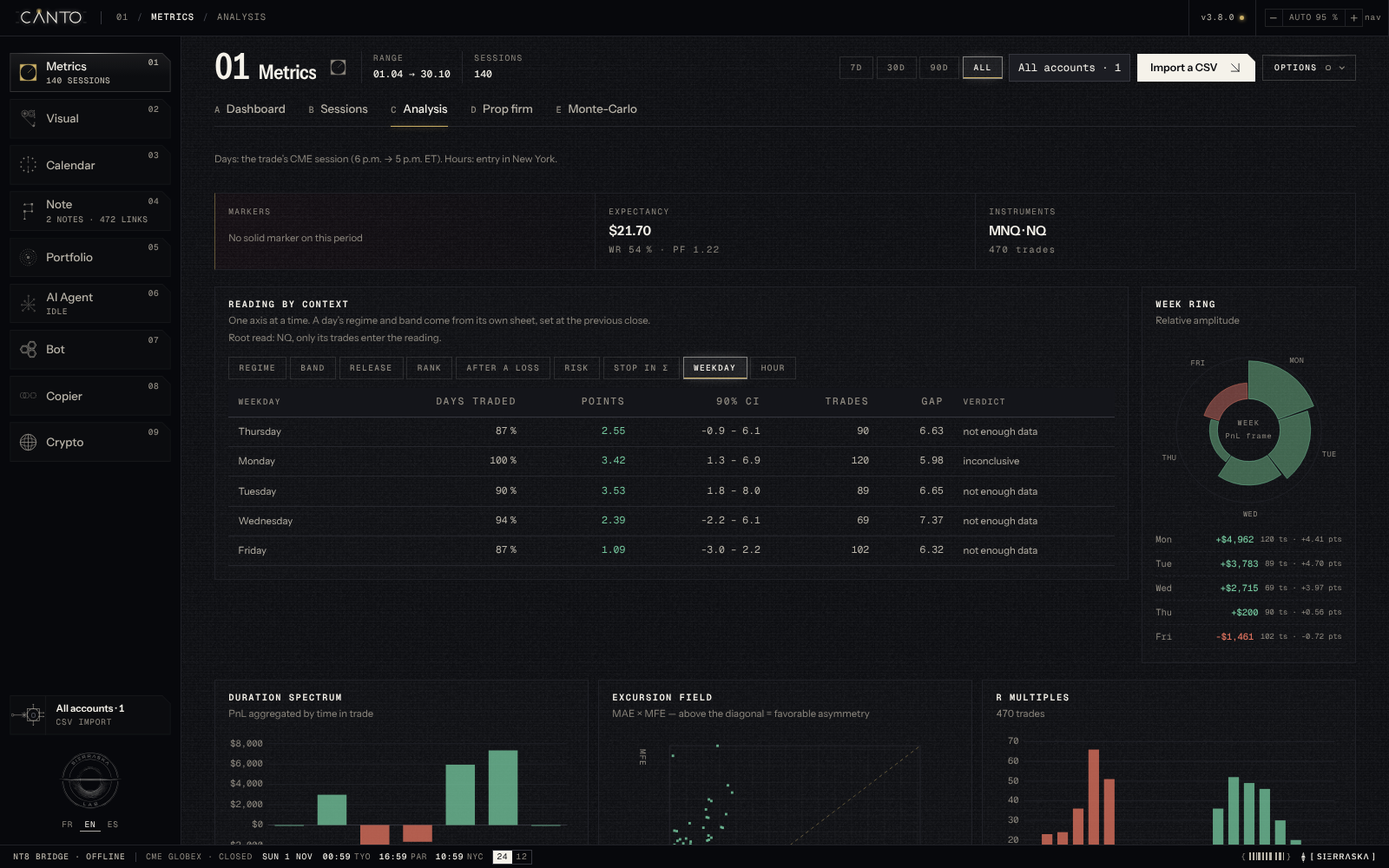
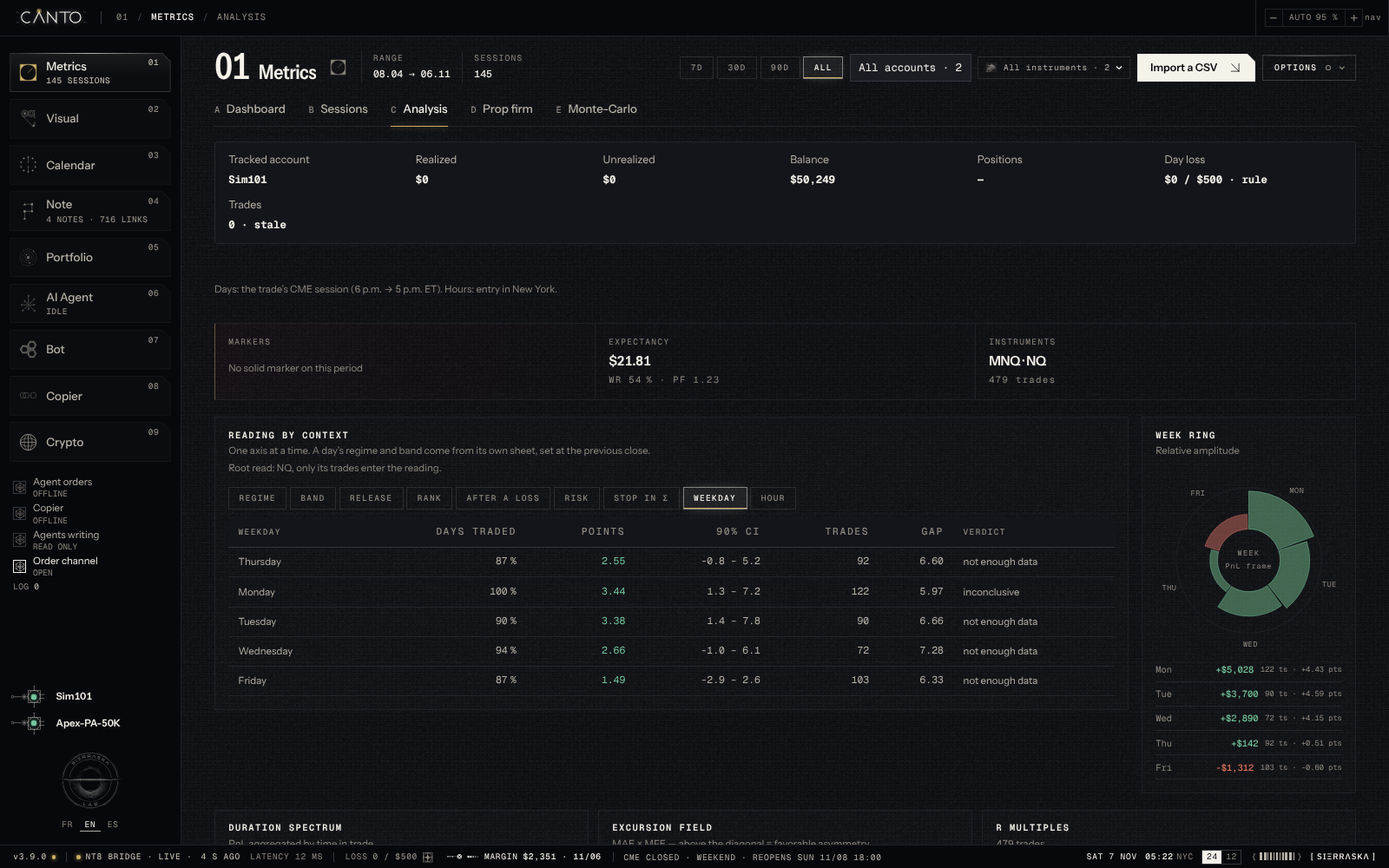
R3.9c mettre le README et ses plates au desk de main : version au pied, comptes connectés, ligne de la journée, fiche et frise, pont NT8 simulé à la capture, 3 159 tests

diff --git a/tests/readme.test.ts b/tests/readme.test.ts
@@ -79,4 +79,37 @@ describe('README', () => {
     expect(readme).not.toContain('The agent reads official sources only');
     expect(readme).toContain('the training is started, resumed and stopped from the Lab\'s own desk only');
   });
+
+  it('R3.9c le README suit le desk de main : la version au pied, les comptes connectés, la ligne de la journée, la fiche et la frise, des plates recapturées avec le pont', () => {
+    const desk = readme.slice(readme.indexOf('<a id="the-desk"></a>'), readme.indexOf('<a id="metrics"></a>'));
+    // La section dit qu'elle montre main, en avance sur les installeurs de la version publiée.
+    expect(desk).toContain('This section and its plates show the desk on `main`.');
+    // Le pied du rail : les comptes connectés, et plus la cartouche du compte ; rien sans compte connecté.
+    expect(desk).toContain('**connected accounts**');
+    expect(desk).toContain('its lamp lit green');
+    expect(desk).toContain('nothing at all when none is connected');
+    expect(readme).not.toMatch(/the \*\*account\*\* in the same cartouche|then the name and the source/);
+    // La version au pied, premier indicateur de la barre d'état : plus en haut à droite.
+    expect(desk).toContain('The version comes first and opens the changelog.');
+    expect(readme).not.toMatch(/At the top right of the title bar, the version|the version at the top right|beside the version in the title bar|opened from the version at the top right/);
+    // La barre d'état est la ligne de la journée : ni Tokyo, ni Paris, ni la phase Globex.
+    expect(desk).toContain("The **status bar** is the day's line.");
+    expect(readme).not.toMatch(/Tokyo, Paris and New York clocks|the CME Globex phase|The status bar gives the CME Globex session/);
+    // Le Système 5 : les portes, la fiche, l'omnibar, la frise et le registre, et la plate de la fiche Compte.
+    for (const piece of ['**gates**', '**Every object has its record.**', '**omnibar**', '**The frise and the log.**']) expect(desk, piece).toContain(piece);
+    expect(desk).toContain('<img src="docs/media/fiche.png"');
+    // Le système visuel suit la doctrine du Système 5 et le voyant à la menthe.
+    const visual = readme.slice(readme.indexOf('### Visual system'), readme.indexOf('<a id="develop">'));
+    expect(visual).toContain('Gold `#CCB066` says what you hold');
+    expect(visual).not.toMatch(/marks what is alive|one is left on the desk, on the kill-switch band/);
+    expect(visual).toMatch(/mint `#74C69D`[^.]*connected account/);
+    expect(visual).toContain('the version at the bottom left of the status bar');
+    // La journée fermée dans les gardes de l'agent (décision 15).
+    expect(readme).toContain('the CME day stays closed to openings until the next CME day');
+    // Le script des plates pose un pont vivant qui rapporte les deux comptes de la démo, et capture la fiche Compte.
+    const script = readFileSync('scripts/capture-readme.mjs', 'utf8');
+    expect(script).toContain("export const BRIDGE_ACCOUNTS = ['Sim101', 'Apex-PA-50K'];");
+    expect(script).toMatch(/await liveBridge\(page\);\s*await page\.getByRole\('button', \{ name: 'Demo dataset'/);
+    expect(script).toContain("await shot(page, out, 'fiche.png');");
+  });
 });

diff --git a/README.md b/README.md
@@ -20,7 +20,7 @@ One window on your machine. Your data stays there, unless you send it to a cloud
 <br/><br/>
 
 [![Version](https://img.shields.io/badge/version-3.9.0-CCB066?style=flat-square)](#versions)
-[![Tests](https://img.shields.io/badge/tests-2742%20passed-000000?style=flat-square)](tests)
+[![Tests](https://img.shields.io/badge/tests-3159%20passed-000000?style=flat-square)](tests)
 [![License](https://img.shields.io/badge/license-PolyForm%20Noncommercial%201.0.0-000000?style=flat-square)](LICENSE)
 [![NinjaTrader](https://img.shields.io/badge/NinjaTrader-8-000000?style=flat-square)](docs/PONT-NINJATRADER.md)
 [![MCP](https://img.shields.io/badge/MCP-local%20gateway-000000?style=flat-square)](docs/PROTOCOLE-AGENT.md)
@@ -30,9 +30,9 @@ One window on your machine. Your data stays there, unless you send it to a cloud
 
 <br/>
 
-<img src="docs/media/metrique.png" alt="CΛNTO — Metrics dashboard: net P&L, expectancy, win rate, profit factor, the K.04 gauge, interactive equity curve over 140 sessions" width="920"/>
+<img src="docs/media/metrique.png" alt="CΛNTO — Metrics dashboard with the NT8 bridge live: the tracked account's session strip, net P&L, expectancy, win rate, profit factor, the K.04 gauge, the equity curve; two connected accounts at the foot of the rail; the version and the day's line in the status bar" width="920"/>
 
-<sub><code>01 · MET</code> Metrics — 140 demo sessions: net P&L after fees, the K.04 gauge, the interactive equity curve with its drawdown.</sub>
+<sub><code>01 · MET</code> Metrics — the demo journal, NinjaTrader 8 connected: the tracked account's session strip, net P&L after fees, the K gauges, the interactive equity curve. At the foot of the rail, the two connected accounts, their lamp lit green; along the bottom, the version, the bridge and the day's bounds.</sub>
 
 <br/><br/>
 
@@ -184,7 +184,7 @@ On Windows, `CANTO.cmd` downloads Electron without the `extract-zip` native modu
 
 <br/>
 
-The launcher checks at start-up and shows **Update and relaunch**, ruled in gold, only when there is something to install: a newer published Release for an installer, new commits on `origin/main` for a git clone. Inside the desk, an **UPD** cell with a gold dot appears beside the version in the title bar.
+The launcher checks at start-up and shows **Update and relaunch**, ruled in gold, only when there is something to install: a newer published Release for an installer, new commits on `origin/main` for a git clone. Inside the desk, an **UPD** cell with a gold dot appears at the top right of the title bar, before the zoom.
 
 | Install | What the button does |
 |---|---|
@@ -223,7 +223,7 @@ Every install opens on the **AUBE launcher**: the horizon draws itself and the g
 </tr>
 </table>
 
-1. **Bring your journal.** Metrics › **Import a CSV**: a NinjaTrader *Trades* or *Executions* export, or a CΛNTO CSV. To explore first, load the **Demo dataset** (140 sessions) from the empty journal or from Options.
+1. **Bring your journal.** Metrics › **Import a CSV**: a NinjaTrader *Trades* or *Executions* export, or a CΛNTO CSV. To explore first, load the **Demo dataset** from the empty journal or from Options: 140 sessions on an Apex account, and five on `Sim101` under a tracked plan.
 2. **Set your plan and your rules.** Metrics › Options › **Desk settings**: the tracked prop-firm plan and account, then *Discipline* — max daily loss, trades per day, catalyst window, revenge window, allowed instruments.
 3. **Connect NinjaTrader 8.** Compile the AddOn once, then **Write the NinjaTrader configuration** in Metrics › Options › NinjaTrader bridge. See [the bridge](#ninjatrader-8-bridge).
 4. **Meet the agent.** **AI agent** (`06`) opens on **A · Reports**, the Lab's report folder, read-only. In **C · Options**, pick a provider preset — a local model (Ollama, LM Studio) or a cloud API with your own key — then, in **B · Conversation**, **Brief** before the open and **Debrief** after the close.
@@ -233,6 +233,9 @@ Every install opens on the **AUBE launcher**: the horizon draws itself and the g
 <a id="the-desk"></a>
 
 ## The desk
+
+> [!NOTE]
+> This section and its plates show the desk on `main`. Its records, the frise, the day's line in the status bar and the connected accounts at the foot of the rail reach the installers with the next release.
 
 | | Module | What it does | Status |
 |---|---|---|---|
@@ -246,7 +249,17 @@ Every install opens on the **AUBE launcher**: the horizon draws itself and the g
 | <code>08&nbsp;·&nbsp;CPY</code> | [Copier](#copier) | Position-based replication from a master to Sim followers | Sim only · disarmed on launch |
 | <code>09&nbsp;·&nbsp;CRY</code> | [Crypto](#crypto) | Live crypto chart with its CVD, market temperature and local alerts; read and driven by the agent | Optional · off by default |
 
-**Nine modules, one chassis.** On the **rail**, each module has its cartouche: its emblem, its name and, under it, what it holds right now — sessions in the journal, today's markers, notes and links, unread reports or the orchestrator's state, the copier's followers, the crypto markets on the watchlist. The number in its corner is its shortcut: `Ctrl` or `⌘` + `1` … `9` switches modules. At the foot of the rail, the **account** in the same cartouche — the bridge and the vault in one micrograph, its lamp at the heart, then the name and the source — then the Lab's Horizon seal, engraved, and FR · EN · ES. At the top right of the title bar, the version opens the changelog; beside it, the zoom: − value +. The **status bar** keeps the chassis black: the NT8 bridge live or offline, the CME Globex phase and the New York session date, Tokyo, Paris and New York clocks in 24 h or 12 h; it ends on the Lab's signature, eleven bars between braces drawn anew at each launch, and `[ SIΞRRΛSKΛ ]`. Once the kill switch is engaged, a level-3 band stays under the title bar until the desk restarts.
+**Nine modules, one chassis.** On the **rail**, each module has its cartouche: its emblem, its name and, under it, what it holds right now — sessions in the journal, today's markers, notes and links, unread reports or the orchestrator's state, the copier's followers, the crypto markets on the watchlist. The number in its corner is its shortcut: `Ctrl` or `⌘` + `1` … `9` switches modules. Under the cartouches, the **gates**, read-only: the four writes the main process guards — agent orders, the Copier, agents writing, the order channel — each with its state, *offline* never confused with *closed until restart*. A gate opens what sets it and never arms anything. Then **Log n**, the launch log. At the foot of the rail, the **connected accounts**: one line per account the NinjaTrader bridge reports while it is live — the bridge-and-vault micrograph, its lamp lit green, then the name — stacked when there are several, and nothing at all when none is connected; a line opens its account's record. Then the Lab's Horizon seal, engraved, and FR · EN · ES. The title bar carries the trail — module, view, open object — and, at the top right, the update cell when one is ready, then the zoom: − value +.
+
+The **status bar** is the day's line. The version comes first and opens the changelog. Then the NT8 bridge, live or offline, the age of its reading and its latency; the day's bounds — the day loss on its limit, with a warning at 75 % and level 3 beyond, the trades on their maximum, the dated margin to the floor — the nearest one in ivory, each cell opening the tracked account's record; then the answer of time: what holds now, the kill switch first, or what comes next and when, or the next major catalyst. On the right, New York's date and clock in 24 h or 12 h, and the Lab's signature: eleven bars between braces, drawn anew at each launch, then `[ SIΞRRΛSKΛ ]`. Once the kill switch is engaged, a level-3 band stays under the title bar until the desk restarts.
+
+**Every object has its record.** A session, a trade, a catalyst, an account, an instrument, a note, a strategy, a proposal of the agent: each opens its **record** as a third column of 400 px, beside the work area — nothing hidden, nothing covered. A record shows the identifier in clear, three actions at most, the object's properties (— where nothing is known), its links by predicate with their author, its provenance and its activity; **Around…** opens its neighbours as a shared selection. It only reads, except to confirm or reject a proposed link. `↑` `↓` move to the neighbouring object of the list, `Esc` closes it and returns the focus to its row, `Backspace` undoes the last jump: module, view, record and trail come back. `Ctrl` or `⌘` + `J` opens the **omnibar**, an index of every object and module in nine groups; `F6` moves between the rail, the work area, the record and the status bar; `?` lists every shortcut.
+
+<img src="docs/media/fiche.png" alt="CΛNTO — the record of the Sim101 account in the third column: today's margin, ΟΡΟΣ · Bounds with the nested bounds, the agent order guard read as a mirror, the tracked plan, the bridge and the Copier" width="920"/>
+
+<sub><b>Account record</b> — opened from its line at the foot of the rail: today's margin and the cumulative net; ΟΡΟΣ · Bounds — the day loss on its limit, the trades, the margin to the floor nested in the max drawdown; the agent's order guard read as a mirror; the tracked plan; the bridge and the Copier.</sub>
+
+**The frise and the log.** The answer at the end of the day's line unfolds the **frise**, a 64 px drawer over the work area: four lanes — Session, Catalysts, Windows, Desk — across the CME day, *now* in gold, and a time cursor on the keyboard: `←` `→` by 5 minutes, with `Shift` by the hour, `PgUp` `PgDn` by trading day, `Home` `End`, `Esc` back to the present, `Enter` to open the record under the cursor. **Log n** opens the launch log, a 240 px drawer: the desk's events in memory, 500 at most, one glyph per kind. A record's activity is that log, filtered on its object.
 
 <a id="metrics"></a>
 <a id="métrique"></a>
@@ -262,7 +275,7 @@ Every install opens on the **AUBE launcher**: the horizon draws itself and the g
 
 Five views — **A Dashboard · B Sessions · C Analysis · D Prop firm · E Monte Carlo** — read the range (7, 30 or 90 days, or all) and the account chosen at the top; Prop firm ignores the range, Sessions keeps its own filters. The **Options** menu, top right, holds the NinjaTrader bridge, a manual session, CSV export, vault export and restore, and the desk settings. Underneath, a pure TypeScript engine (`src/engine`) that never touches the interface.
 
-- **The dashboard.** Net P&L after commissions, four gauges — K.01 expectancy, K.02 win rate, K.03 profit factor before and after fees, K.04 drawdown — and the A.02 equity curve by session or by trade, with its high, the trough of the largest drawdown and an underwater pane; `Ctrl` + wheel zooms, a double-click shows all. With one account filtered and its plan tracked, K.04 becomes the margin to the floor and the plan's limit is drawn under the curve; the gauge turns to watch at 80 % of the limit used and to critical once it is crossed.
+- **The dashboard.** Net P&L after commissions, four gauges — K.01 expectancy, K.02 win rate, K.03 profit factor before and after fees, K.04 drawdown — and the A.02 equity curve by session or by trade, with its high, the trough of the largest drawdown and an underwater pane; `Ctrl` + wheel zooms, a double-click shows all, a click on a step opens that session's record. Chips light the major catalysts and the replayed rule breaches on the curve without changing it; A.03 splits the trades by instrument and, by entry hour in New York, winners against losers. With one account filtered and its plan tracked, K.04 becomes the margin to the floor and the plan's limit is drawn under the curve; the gauge turns to watch at 80 % of the limit used and to critical once it is crossed.
 - **During the session.** With the AddOn live, a strip at the top reads the tracked account: realized, unrealized, balance, positions, the day loss against its limit (the plan's or your rule's), trades against your daily cap, fresh or stale. Working orders follow, read-only; those the agent proposed are marked.
 - **A journal you can trust.** Up to 1,000 sessions, each with its account, its CME trading date (Globex, 18:00 New York) and its trades; past that, a warning and an export, never a silent drop. P&L is recomputed from price × point value (the registry cites CME Group), commissions deducted.
 - **Ratios with their uncertainty.** Profit factor before and after fees, expectancy in $ and in R, Sharpe / Sortino / Calmar with intervals, SQN, Kelly, MAE / MFE, drawdown and recovery.
@@ -273,11 +286,11 @@ Five views — **A Dashboard · B Sessions · C Analysis · D Prop firm · E Mon
 
 <table>
 <tr>
-<td width="50%"><img src="docs/media/analyse.png" alt="CΛNTO — Analysis: reading by context, week ring, duration spectrum, excursion field, R multiples"/></td>
+<td width="50%"><img src="docs/media/analyse.png" alt="CΛNTO — Analysis: the session strip of the tracked account, reading by context one axis at a time, here by weekday, and the week ring"/></td>
 <td width="50%"><img src="docs/media/propfirm.png" alt="CΛNTO — Prop firm: Apex Full 50K replay, balance, floor, target"/></td>
 </tr>
 <tr>
-<td><sub><b>Analysis</b> — reading by context, week ring, duration spectrum, excursion field, R multiples.</sub></td>
+<td><sub><b>Analysis</b> — reading by context, one axis at a time (here the weekday, with its 90 % interval and verdict), and the week ring; the duration spectrum, the excursion field and the R multiples follow below.</sub></td>
 <td><sub><b>Prop firm</b> — an Apex Full 50K replay: balance, floor, target, consistency.</sub></td>
 </tr>
 <tr>
@@ -343,7 +356,7 @@ Five views — **A Dashboard · B Sessions · C Analysis · D Prop firm · E Mon
 - Catalysts from the official pages — **BLS, BEA, the Federal Reserve, the ECB, EIA and TreasuryDirect** — with a 2026 snapshot inside the binary, so a fresh install still shows NFP and CPI when a host refuses. FRED only with a key you type.
 - CME expirations and rollovers computed locally (marked estimated), US and EU clock changes, shortened sessions.
 - Monthly grid or chronological feed, filtered by impact (all, notable and up, major) and by family, each family with a beginner's guide; estimated dates shown, marked ≈, and hidden on request; local and New York times, your journal P&L in each cell. Beside it, the selected day: its session (projected onto Visual in one click), each release with expected, previous and actual, your note and timed reminders.
-- **The stroke tells the state.** Solid once released, dashed when due within seven days, dotted beyond that horizon; three bars tell the impact. *Now* is drawn in gold. The status bar gives the CME Globex session; the toolbar and the **Options** button give the state of the sync.
+- **The stroke tells the state.** Solid once released, dashed when due within seven days, dotted beyond that horizon; three bars tell the impact. *Now* is drawn in gold. At the end of the status bar, the answer of time says whether the CME is open and what comes next; the toolbar and the **Options** button give the state of the sync.
 
 <a id="notes"></a>
 <a id="04-nte"></a>
@@ -400,7 +413,7 @@ The tab opens on the reports; a draft, a scroll or a setting in progress survive
 | View | What it holds |
 |---|---|
 | **A · Reports** | The folder of the Lab's analysis reports, read the same way on every desk; the Lab's own desk adds **Pull now** and the next planned sheet. One sheet per report, coded `AGT-RPT-YYYYMMDD`, with a gold LED until you open it; the latest report opens by itself. The reader shows the day, when the report was written and received, its sections and its sources; each link shows the host it leads to, and an `https` link opens in your system browser. The header and the rail count unread reports; **Open the folder** shows them on disk. Where they come from: [Lab reports](#lab-reports). |
-| **B · Conversation** | The conversational model with the native desk tools, suggested questions, and the **Brief** and **Debrief** routines, marked when they are due. |
+| **B · Conversation** | The conversational model with the native desk tools, suggested questions, and the **Brief** and **Debrief** routines, marked when they are due. Under each answer, the trace of its tool calls: name, bounded arguments, outcome, duration. Beside it, the **Proposals** since the desk opened, kept in memory: each card shows the order as the dialog shows it, the reason quoted, the guard's twelve outcomes in its order and the 45 s bar; no button accepts an order. |
 | **C · Options** | A status strip — model, MCP gateway, orchestrator, agents writing, agent orders — then the provider, external agents over MCP, the external orchestrator, orders proposed by the agent, and the native tools. |
 
 The Lab's own desk has a fourth view, **D · Lab**, to steer the cloud agent that writes the reports; no other desk shows it. The embedded agent and any external MCP client read the desk through the same typed tools. Providers go through the main process: a local model (Ollama, LM Studio) or a cloud API with your own key. **How it reads, watches and proposes — and what stops it — is in [The agent](#the-agent).**
@@ -505,7 +518,7 @@ sequenceDiagram
     end
 ```
 
-- **Guards before any dialog.** Sim accounts only. The NinjaTrader bridge must be live and its order channel open; after the kill switch the channel stays closed until the desk restarts. One proposal may wait at a time. The agent has its own limits: contracts per order, resulting position and proposals per minute, 1, 2 and 3 by default. The tracked prop plan's dated buffer (the K.04 gauge, unrealized loss included) must stay above 25 % of max drawdown. Your rules apply: day loss reached, catalyst window, instrument not allowed. An order that reduces the position is exempt from the position cap, the prop buffer and your rules, but not from the per-order size or the cadence.
+- **Guards before any dialog.** Sim accounts only. The NinjaTrader bridge must be live and its order channel open; after the kill switch the channel stays closed until the desk restarts. One proposal may wait at a time. The agent has its own limits: contracts per order, resulting position and proposals per minute, 1, 2 and 3 by default. The tracked prop plan's dated buffer (the K.04 gauge, unrealized loss included) must stay above 25 % of max drawdown. Your rules apply: day loss reached, catalyst window, instrument not allowed. Once the day loss is reached, the CME day stays closed to openings until the next CME day, even if a gain brings it back under the limit; the main process keeps its own lock, which the interface cannot lift, and the status bar says *day closed since hh:mm ET*. An order that reduces the position is exempt from the position cap, the prop buffer and your rules, but not from the per-order size or the cadence.
 - **You decide.** Each order waits for you in a main-process dialog for 45 seconds, **Decline** by default. The dialog shows the order, the account, the position before and after, and the agent's reason; without an answer, nothing is sent. Agent-proposed orders are off each time the desk opens. Turning them on in **AI agent › C · Options › Orders proposed by the agent**, or raising the agent's limits, takes a main-process dialog; lowering a limit is immediate. An MCP client or the orchestrator reaches `propose_order` only once *write allowed* is on, and the guards and the dialog stay the same.
 - **No agent submits.** `copy.order` is not an agent tool, and the Lab's cloud agent has no order tool at all. Other writes (notes, links, annotations, crypto tab edits: chart, indicators, drawings, alerts, watchlist) are confirmed by you. For external agents they are allowed by one switch, *write allowed*, shared by the MCP gateway and the orchestrator and off by default.
 
@@ -666,7 +679,7 @@ A trading desk that can send orders earns trust by what it refuses to do. These 
 |---|---|
 | **Orders** | Accounts whose name starts with `Sim` by default; a live account only after an explicit main-process dialog. Contract ceiling from 1 to 1,000 (default 20); raising it takes a main-process dialog. Mandatory tag. Kill switch <kbd>Ctrl</kbd>+<kbd>Shift</kbd>+<kbd>K</kbd> (<kbd>Cmd</kbd> on macOS); after it, submission stays closed until the desk restarts, and a level-3 band stays under the title bar, AddOn connected or not. |
 | **NinjaTrader AddOn** | Its own guard, read from `bridge.json`: allowed accounts, ceiling, tag. The token never travels — desk and AddOn prove they hold it by HMAC challenge–response — and the AddOn sends nothing and executes nothing before the desk has proven itself. |
-| **Agent** | Never submits; `copy.order` is not an agent tool. `propose_order` passes the main-process guards — Sim accounts only, the agent's limits and cadence, the dated prop buffer (K.04), your rules, a channel closed after the kill switch; an order that reduces risk is exempt from the position cap, the prop buffer and your rules — then waits for your confirmation in a main-process dialog (Decline by default, 45 s). Other writes — notes, links, annotations, crypto tab edits — are confirmed by you, or allowed for external agents by a flag that is off by default. Agent-proposed orders are off at every launch; turning them on and raising the agent's limits each take a main-process dialog, while lowering a limit is immediate. It subscribes to no market data on its own: it reads what you opened, and a read never opens a feed. In the crypto tab, a write that changes the market or the timeframe, the watchlist or the Binance CVD has the desk open the matching feed — after your confirmation, or without a dialog for an external agent allowed to write. |
+| **Agent** | Never submits; `copy.order` is not an agent tool. `propose_order` passes the main-process guards — Sim accounts only, the agent's limits and cadence, the dated prop buffer (K.04), your rules, a CME day closed to openings from the moment the day loss is reached until the next one, a channel closed after the kill switch; an order that reduces risk is exempt from the position cap, the prop buffer and your rules — then waits for your confirmation in a main-process dialog (Decline by default, 45 s). Other writes — notes, links, annotations, crypto tab edits — are confirmed by you, or allowed for external agents by a flag that is off by default. Agent-proposed orders are off at every launch; turning them on and raising the agent's limits each take a main-process dialog, while lowering a limit is immediate. It subscribes to no market data on its own: it reads what you opened, and a read never opens a feed. In the crypto tab, a write that changes the market or the timeframe, the watchlist or the Binance CVD has the desk open the matching feed — after your confirmation, or without a dialog for an external agent allowed to write. |
 | **Bot** | Design only: no automaton sends an order. |
 | **Copier** | Disarmed at every launch; Sim followers only, never the master or a duplicate; arming through a main-process dialog. A risk reduction is never blocked and never exceeds the follower's real position; an opening passes the follower's floor: its dated buffer (K.04), unrealized loss included. |
 | **Crypto** | Off at the first launch, and until you consent in a main-process dialog (Cancel by default); turning it off closes every feed. Network only in the main process, to pinned exchange hosts over `https:` and `wss:` only, with no redirects and no credentials. Public data only — no order, no account. An agent's write can open a feed: see **Agent**. |
@@ -708,7 +721,8 @@ electron/            shell: window, launcher, updates, dialogs, folder bridge, s
                      cloud agent pickup
 electron/nt-bridge/  dedicated JSON-RPC server on 127.0.0.1:48231 (protocol, guards, copier host)
 ninjatrader/         CantoBridge AddOn (atomic CSV and .seen file, WebSocket client)
-src/app/             boot, gate, shell (title bar 44 · rail 220 · status 28), tabs
+src/app/             boot, gate, shell (title bar 44 · rail 220 · status 28 · record 400), records, frise,
+                     omnibar, log, tabs
 src/design/          tokens, fonts, primitives, CΛNTO wordmark, Horizon seal,
                      Lab micrographics, SVG charts
 src/engine/          metrics, Monte Carlo, imports, prop firm, portfolio, instruments,
@@ -728,7 +742,7 @@ docs/                DESIGN · PONT-NINJATRADER · PROTOCOLE-AGENT · THESE-AGEN
 
 ### Visual system
 
-System 4.1 « ΟΡΟΣ » — **[docs/DESIGN.md](docs/DESIGN.md)**. The Lab's night, ivory and gold: night `#07080C` for the chassis, floor `#0D0E12`, plate `#14151A`, ivory ink `#F5F2EA`, labels at 4.5:1 or more. Gold `#CCB066` marks what is alive — the LED, the last price, “now”; signal red `#E10600` marks level 3 only; hover is a light, dim and slow, that rises on the outline and moves nothing. The line tells the state: solid in service, dashed planned or in design, dotted beyond the horizon. Instrument Sans for display and interface, Geist Mono capitals for labels, IBM Plex Sans for the name and the Greek, Doto for one readout per screen. A plate is never decoration: one is left on the desk, on the kill-switch band, and it says what is closed. The Horizon seal strikes at start-up, closes the lock and, engraved, signs the foot of the rail; the chassis carries one barcode, an eleven-bar code between braces, just before `[ SIΞRRΛSKΛ ]` at the end of the status bar. Chrome: title bar 44 · rail 220 · status 28; the version at the top right of the title bar; one cartouche per module on the rail, with no category; a module's secondary tools in one Options menu at the top right of its header.
+System 4.1 « ΟΡΟΣ » — **[docs/DESIGN.md](docs/DESIGN.md)**. The Lab's night, ivory and gold: night `#07080C` for the chassis, floor `#0D0E12`, plate `#14151A`, ivory ink `#F5F2EA`, labels at 4.5:1 or more. Gold `#CCB066` says what you hold — now, the open object, the decision waiting for you with its 45 s bar, and the LED; signal red `#E10600` marks level 3 only, and never writes; mint `#74C69D`, the colour of a gain, also lights the lamp of a connected account. Hover is a light, dim and slow, that rises on the outline and moves nothing. The line tells the state, from one table: solid in service, dashed planned or proposed, dotted beyond the horizon, a graphite rule when closed, paused or disarmed. Instrument Sans for display and interface, Geist Mono capitals for labels, IBM Plex Sans for the name and the Greek — ΟΡΟΣ appears once, over the bounds of the account record —, Doto for one readout per screen. No plate is left on the desk: the kill-switch band says what is closed with its crossed circle and its red rule. The Horizon seal strikes at start-up, closes the lock and, engraved, signs the foot of the rail; the chassis carries one barcode, an eleven-bar code between braces, just before `[ SIΞRRΛSKΛ ]` at the end of the status bar. Chrome: title bar 44 · rail 220 · status 28 · record 400; the version at the bottom left of the status bar; one cartouche per module on the rail, with no category; a module's secondary tools in one Options menu at the top right of its header.
 
 ---
 
@@ -777,7 +791,7 @@ Installers land in `release/`, each built on its own OS.
 
 ## Versions
 
-The journal inside the desk, opened from the version at the top right, lists every release in French, English and Spanish.
+The journal inside the desk, opened from the version at the bottom left of the status bar, lists every release in French, English and Spanish.
 
 - **3.9.0** — Quant training on the Lab’s desk: the cloud agent follows the quantmemo.com courses and writes a quant knowledge base, in a memory store, one capped session at a time; the daily analyst reads it read-only; report sources stay on the domains the agent can read. The agent’s order guard reads the bridge’s open P&L the way the main process does. (2026-11-04)
 - <a id="whats-new-in-380"></a>**3.8.0** — Visual system 4.1: a lighter desk, the rail and the account in cartouches, the secondary tools in an Options menu, hover as a dim light; the lock opens by a circuit; AI Agent opens on the Lab’s reports; English and Spanish labels and decimals; updates without cookies. (2026-11-01)
